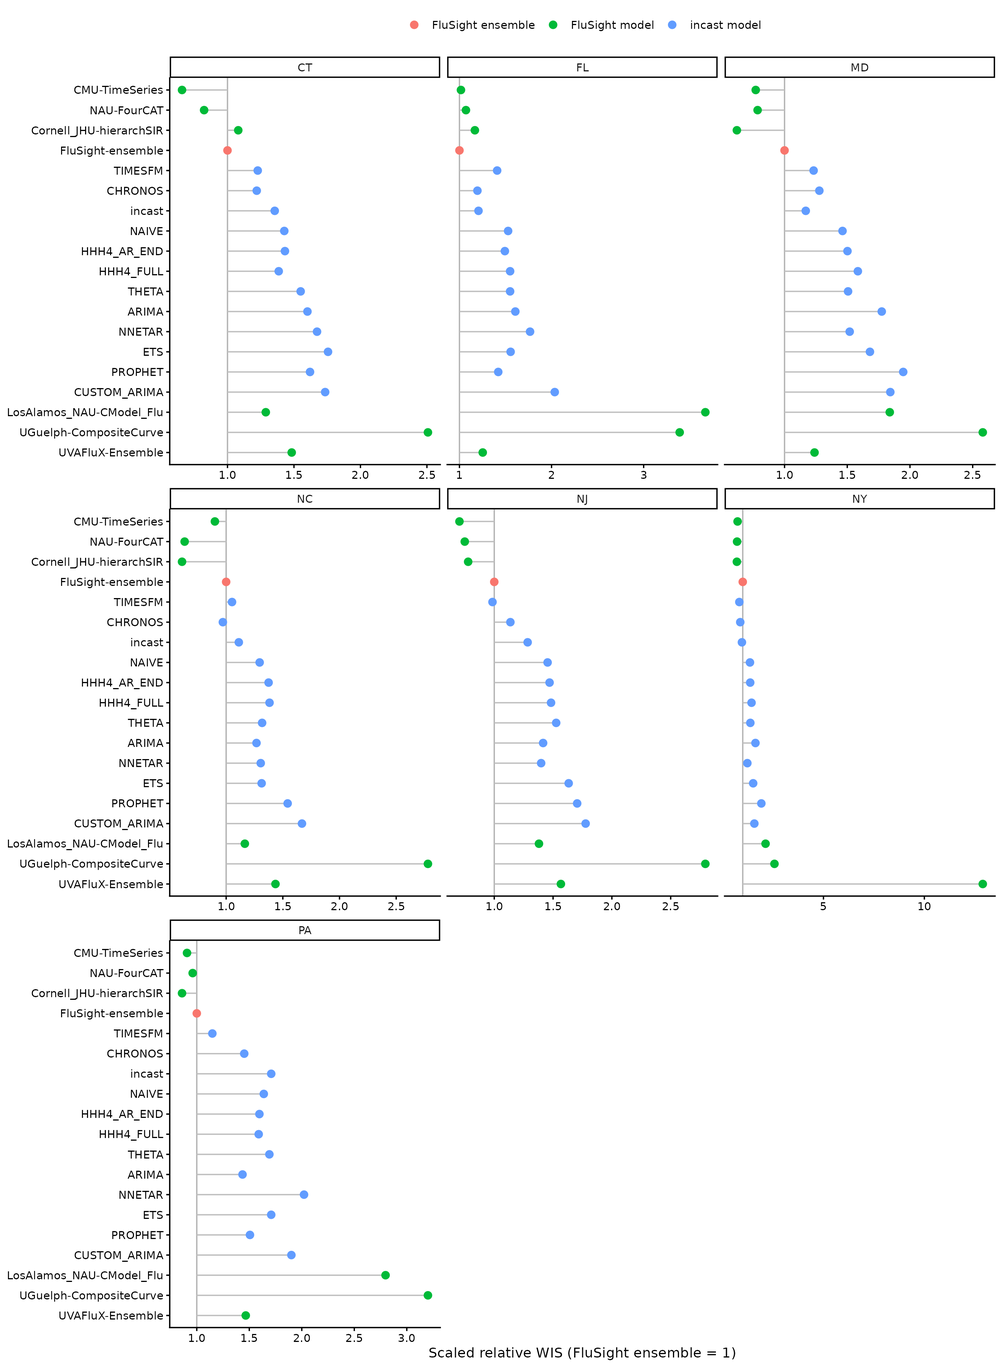
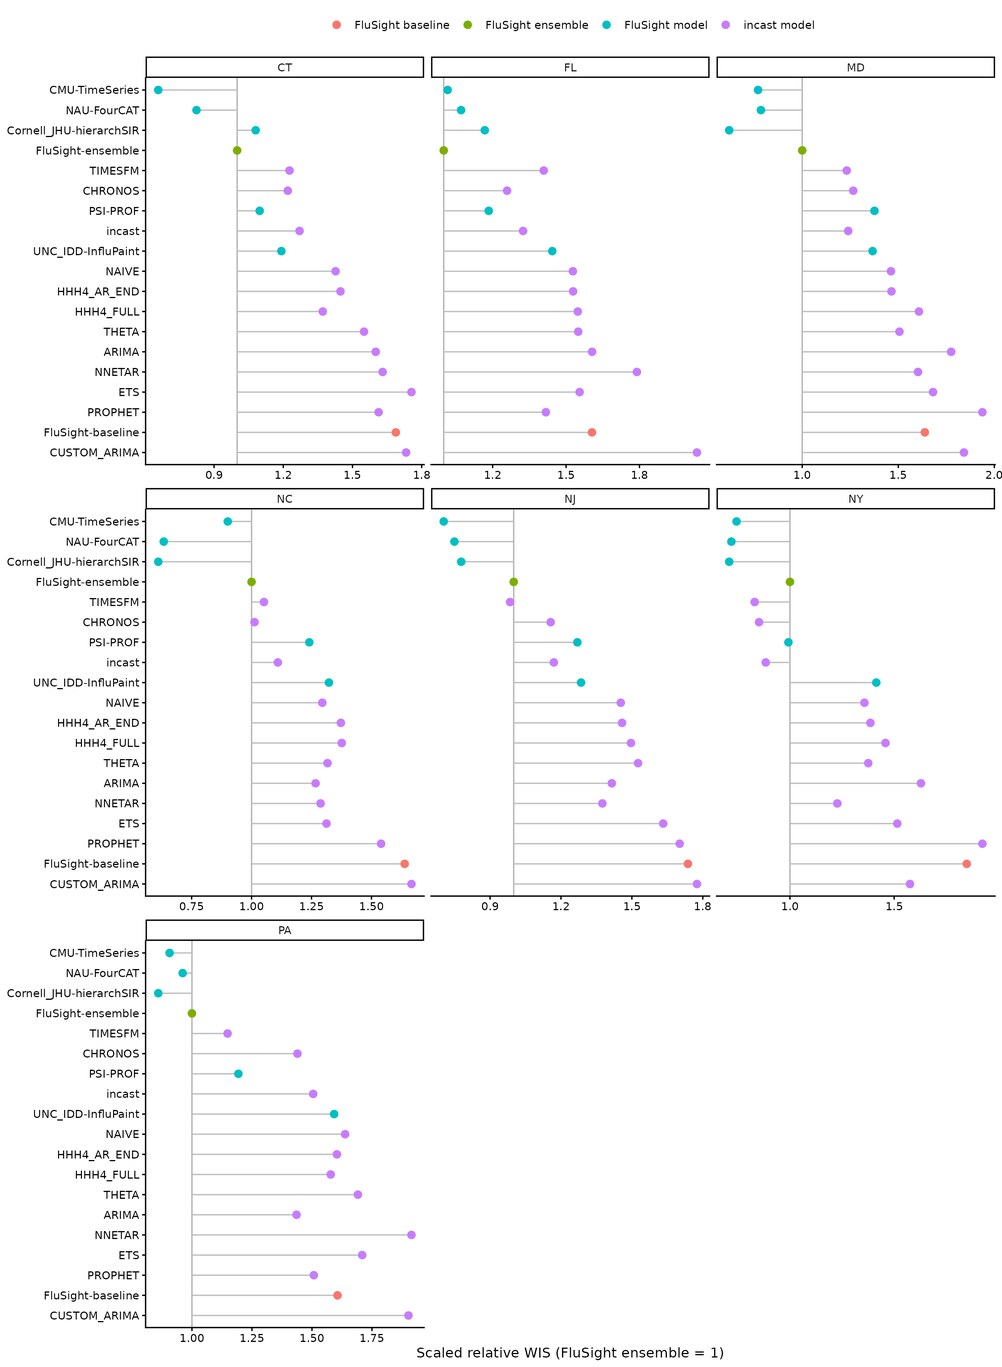
Deploying to gh-pages from @ ACCIDDA/incast@7b730ea4fca12bf1191bf6f40c2be24571ec4ce3 🚀

diff --git a/articles/FluSight.html b/articles/FluSight.html
@@ -111,10 +111,9 @@ forecasts and scores keep the plots fast and reproducible.</p>
 <div class="sourceCode" id="cb2"><pre class="downlit sourceCode r">
 <code class="sourceCode R"><span><span class="fu"><a href="https://rdrr.io/r/utils/write.table.html" class="external-link">write.csv</a></span><span class="op">(</span><span class="va">flusight_forecasts</span>, <span class="st">"incast.csv"</span>, row.names <span class="op">=</span> <span class="cn">FALSE</span><span class="op">)</span></span></code></pre></div>
 <p>The data contain every candidate that fitted successfully. For each
-state and round, the candidate with the lowest cross-validation weighted
-interval score (WIS) is also stored as <code>model_id = "incast"</code>.
-Here, <code>incast</code> is a selected model rather than an
-ensemble.</p>
+state and round, the three candidates with the lowest cross-validation
+weighted interval score (WIS) are combined with equal weights and stored
+as <code>model_id = "incast"</code>.</p>
 </div>
 <div class="section level2">
 <h2 id="backtest-design">Backtest design<a class="anchor" aria-label="anchor" href="#backtest-design"></a>
@@ -156,9 +155,10 @@ origins.</li>
 <li>At each origin, fit every candidate using only earlier observations
 and score its four-week forecast against the latest values available for
 that round.</li>
-<li>Select the lowest-WIS candidate separately for each state.</li>
-<li>Refit every candidate to the data available for the current round
-and save all four forecast horizons. Also save the selected candidate as
+<li>Select the three lowest-WIS candidates separately for each
+state.</li>
+<li>Refit every candidate to the current data and combine the selected
+three using an equal-weight linear pool. Save this ensemble as
 <code>incast</code>.</li>
 </ol>
 <p>The candidates include the four defaults, plus ARIMA, HHH4, Prophet,
@@ -282,7 +282,7 @@ cross-validation explicit:</p>
 <span>    models <span class="op">=</span> <span class="va">my_models</span></span>
 <span>  <span class="op">)</span></span>
 <span></span>
-<span>  <span class="fu"><a href="../reference/get_fcast.html">get_fcast</a></span><span class="op">(</span><span class="va">cv</span>, h <span class="op">=</span> <span class="va">forecast_steps</span>, top_n <span class="op">=</span> <span class="fl">1</span><span class="op">)</span><span class="op">$</span><span class="va">hub</span><span class="op">$</span><span class="va">model_out_tbl</span> <span class="op">|&gt;</span></span>
+<span>  <span class="fu"><a href="../reference/get_fcast.html">get_fcast</a></span><span class="op">(</span><span class="va">cv</span>, h <span class="op">=</span> <span class="va">forecast_steps</span>, top_n <span class="op">=</span> <span class="fl">3</span><span class="op">)</span><span class="op">$</span><span class="va">hub</span><span class="op">$</span><span class="va">model_out_tbl</span> <span class="op">|&gt;</span></span>
 <span>    <span class="fu"><a href="https://dplyr.tidyverse.org/reference/transmute.html" class="external-link">transmute</a></span><span class="op">(</span></span>
 <span>      model_id <span class="op">=</span> <span class="fu"><a href="https://dplyr.tidyverse.org/reference/if_else.html" class="external-link">if_else</a></span><span class="op">(</span><span class="va">model_id</span> <span class="op">==</span> <span class="st">"ENSEMBLE"</span>, <span class="st">"incast"</span>, <span class="va">model_id</span><span class="op">)</span>,</span>
 <span>      reference_date <span class="op">=</span> <span class="va">ref_date</span>,</span>
@@ -310,10 +310,10 @@ cross-validation explicit:</p>
 <span><span class="op">}</span><span class="op">)</span></span>
 <span></span>
 <span><span class="va">flusight_forecasts</span> <span class="op">&lt;-</span> <span class="fu"><a href="https://dplyr.tidyverse.org/reference/bind_rows.html" class="external-link">bind_rows</a></span><span class="op">(</span><span class="va">rounds</span><span class="op">)</span></span>
-<span><span class="fu"><a href="https://rdrr.io/r/base/save.html" class="external-link">save</a></span><span class="op">(</span></span>
+<span><span class="fu"><a href="https://rdrr.io/r/utils/write.table.html" class="external-link">write.csv</a></span><span class="op">(</span></span>
 <span>  <span class="va">flusight_forecasts</span>,</span>
-<span>  file <span class="op">=</span> <span class="fu"><a href="https://rdrr.io/r/base/file.path.html" class="external-link">file.path</a></span><span class="op">(</span><span class="st">"data"</span>, <span class="st">"flusight_forecasts.rda"</span><span class="op">)</span>,</span>
-<span>  compress <span class="op">=</span> <span class="st">"xz"</span></span>
+<span>  <span class="fu"><a href="https://rdrr.io/r/base/file.path.html" class="external-link">file.path</a></span><span class="op">(</span><span class="st">"data-raw"</span>, <span class="st">"incast.csv"</span><span class="op">)</span>,</span>
+<span>  row.names <span class="op">=</span> <span class="cn">FALSE</span></span>
 <span><span class="op">)</span></span></code></pre></div>
 </div>
 </div>
@@ -322,16 +322,20 @@ cross-validation explicit:</p>
 </h2>
 <p>The saved forecasts were scored with
 <code><a href="https://hubverse-org.github.io/hubEvals/reference/score_model_out.html" class="external-link">hubEvals::score_model_out()</a></code> against the FluSight v1.2.0
-target data. <code>FluSight-ensemble</code> is the baseline. Lower WIS
-is better, and scaled relative WIS below one indicates better
-performance than the ensemble.</p>
+target data. Scores are scaled relative to
+<code>FluSight-ensemble</code>. Lower WIS is better, and scaled relative
+WIS below one indicates better performance than the ensemble.</p>
 <p>Only the five quantiles available for every model (0.025, 0.25, 0.5,
 0.75, and 0.975) are scored. Consequently, this is a like-for-like
 comparison among the models shown here, but it is not the official
 FluSight evaluation based on the Hub’s complete quantile grid.</p>
-<p>The plot includes the three best and three worst individual FluSight
-models, plus the FluSight ensemble. Ranks use pooled scaled relative WIS
-across seven states.</p>
+<p>The plot includes the FluSight ensemble, the naive
+<code>FluSight-baseline</code>, the three best individual FluSight
+models, and the models ranked nearest the 50th and 75th percentiles.
+Ranks use pooled scaled relative WIS across seven states, among
+submissions covering at least 90% of the scored forecasts. Note that the
+top three are identified with hindsight; only the ensemble and baseline
+were available in real time.</p>
 <div class="sourceCode" id="cb6"><pre class="downlit sourceCode r">
 <code class="sourceCode R"><span><span class="va">plot_scores</span> <span class="op">&lt;-</span> <span class="kw">function</span><span class="op">(</span><span class="va">x</span><span class="op">)</span> <span class="op">{</span></span>
 <span>  <span class="va">x</span> <span class="op">|&gt;</span></span>
@@ -353,29 +357,31 @@ across seven states.</p>
 <span>    <span class="fu"><a href="https://ggplot2.tidyverse.org/reference/theme.html" class="external-link">theme</a></span><span class="op">(</span>legend.position <span class="op">=</span> <span class="st">"top"</span><span class="op">)</span></span>
 <span><span class="op">}</span></span>
 <span></span>
-<span><span class="fu">plot_scores</span><span class="op">(</span><span class="va">flusight_scores</span><span class="op">)</span></span></code></pre></div>
+<span><span class="va">flusight_scores</span> <span class="op">|&gt;</span></span>
+<span>  <span class="fu"><a href="https://rdrr.io/r/stats/filter.html" class="external-link">filter</a></span><span class="op">(</span><span class="va">display</span><span class="op">)</span> <span class="op">|&gt;</span></span>
+<span>  <span class="fu">plot_scores</span><span class="op">(</span><span class="op">)</span></span></code></pre></div>
 <p><img src="FluSight_files/figure-html/score-overall-1.png" class="r-plt" alt="" width="960"></p>
 <p>Performance varies by state. Points left of the vertical line
 outperform the FluSight ensemble. The two <code>odin2</code> candidates
-are omitted because they are not well parameterised.
-<code>CHRONOS</code> and <code>TIMESFM</code> may have seen earlier
-FluSight data during training; their published training cut-off dates
-should be checked before interpreting the comparison.</p>
+are omitted here: they are not well parameterised, and their extreme
+state-level scores would stretch the facet scales. Neither <a href="https://huggingface.co/amazon/chronos-t5-small" class="external-link"><code>CHRONOS</code></a>
+nor <a href="https://huggingface.co/google/timesfm-2.5-200m-pytorch" class="external-link"><code>TIMESFM</code></a>
+could have been pretrained on the 2025–26 evaluation wave.</p>
 <div class="sourceCode" id="cb7"><pre class="downlit sourceCode r">
-<code class="sourceCode R"><span><span class="fu">plot_scores</span><span class="op">(</span><span class="va">flusight_scores_by_location</span><span class="op">)</span> <span class="op">+</span></span>
+<code class="sourceCode R"><span><span class="va">flusight_scores_by_location</span> <span class="op">|&gt;</span></span>
+<span>  <span class="fu"><a href="https://rdrr.io/r/stats/filter.html" class="external-link">filter</a></span><span class="op">(</span><span class="va">display</span><span class="op">)</span> <span class="op">|&gt;</span></span>
+<span>  <span class="fu">plot_scores</span><span class="op">(</span><span class="op">)</span> <span class="op">+</span></span>
 <span>  <span class="fu"><a href="https://ggplot2.tidyverse.org/reference/facet_wrap.html" class="external-link">facet_wrap</a></span><span class="op">(</span><span class="op">~</span><span class="va">state</span>, scales <span class="op">=</span> <span class="st">"free_x"</span><span class="op">)</span></span></code></pre></div>
 <p><img src="FluSight_files/figure-html/score-by-location-1.png" class="r-plt" alt="" width="1320"></p>
 </div>
 <div class="section level2">
 <h2 id="recomputing-the-saved-results">Recomputing the saved results<a class="anchor" aria-label="anchor" href="#recomputing-the-saved-results"></a>
 </h2>
-<p>The score tables used above are stored as
-<code>flusight_scores</code> and
-<code>flusight_scores_by_location</code>. To update the packaged
-forecasts and scores after replacing <code>data-raw/incast.csv</code>,
-run <code>data-raw/FluSight.R</code>. The script downloads the matching
-FluSight forecasts and truth and updates the <code>.rda</code> files; it
-does not refit any <code>incast</code> model.</p>
+<p>Run <code>data-raw/FluSight-backtest.R</code> to refit the backtest
+and write <code>data-raw/incast.csv</code>. The script caches each
+round’s cross-validation object so future changes to <code>top_n</code>
+are faster. It then packages the forecasts and recomputes the score
+tables automatically.</p>
 <p>The model-fitting chunks use <code>eval = FALSE</code>. Run them only
 to regenerate the backtest.</p>
 </div>

diff --git a/reference/flusight_scores.html b/reference/flusight_scores.html
@@ -1,7 +1,7 @@
 <!DOCTYPE html>
-<!-- Generated by pkgdown: do not edit by hand --><html lang="en"><head><meta http-equiv="Content-Type" content="text/html; charset=UTF-8"><meta charset="utf-8"><meta http-equiv="X-UA-Compatible" content="IE=edge"><meta name="viewport" content="width=device-width, initial-scale=1, shrink-to-fit=no"><title>Scores from the 2025–26 FluSight backtest — flusight_scores • incast</title><!-- favicons --><link rel="icon" type="image/png" sizes="96x96" href="../favicon-96x96.png"><link rel="icon" type="”image/svg+xml”" href="../favicon.svg"><link rel="apple-touch-icon" sizes="180x180" href="../apple-touch-icon.png"><link rel="icon" sizes="any" href="../favicon.ico"><link rel="manifest" href="../site.webmanifest"><script src="../deps/jquery-3.6.0/jquery-3.6.0.min.js"></script><meta name="viewport" content="width=device-width, initial-scale=1, shrink-to-fit=no"><link href="../deps/bootstrap-5.3.8/bootstrap.min.css" rel="stylesheet"><script src="../deps/bootstrap-5.3.8/bootstrap.bundle.min.js"></script><link href="../deps/font-awesome-6.5.2/css/all.min.css" rel="stylesheet"><link href="../deps/font-awesome-6.5.2/css/v4-shims.min.css" rel="stylesheet"><script src="../deps/headroom-0.11.0/headroom.min.js"></script><script src="../deps/headroom-0.11.0/jQuery.headroom.min.js"></script><script src="../deps/bootstrap-toc-1.0.1/bootstrap-toc.min.js"></script><script src="../deps/clipboard.js-2.0.11/clipboard.min.js"></script><script src="../deps/search-1.0.0/autocomplete.jquery.min.js"></script><script src="../deps/search-1.0.0/fuse.min.js"></script><script src="../deps/search-1.0.0/mark.min.js"></script><!-- pkgdown --><script src="../pkgdown.js"></script><link href="../extra.css" rel="stylesheet"><script src="../extra.js"></script><meta property="og:title" content="Scores from the 2025–26 FluSight backtest — flusight_scores"><meta name="description" content="Score summaries comparing incast with selected FluSight models. They let
-the FluSight vignette run without refitting models or downloading Hub data."><meta property="og:description" content="Score summaries comparing incast with selected FluSight models. They let
-the FluSight vignette run without refitting models or downloading Hub data."><meta property="og:image" content="https://accidda.github.io/incast/logo.png"></head><body>
+<!-- Generated by pkgdown: do not edit by hand --><html lang="en"><head><meta http-equiv="Content-Type" content="text/html; charset=UTF-8"><meta charset="utf-8"><meta http-equiv="X-UA-Compatible" content="IE=edge"><meta name="viewport" content="width=device-width, initial-scale=1, shrink-to-fit=no"><title>Scores from the 2025–26 FluSight backtest — flusight_scores • incast</title><!-- favicons --><link rel="icon" type="image/png" sizes="96x96" href="../favicon-96x96.png"><link rel="icon" type="”image/svg+xml”" href="../favicon.svg"><link rel="apple-touch-icon" sizes="180x180" href="../apple-touch-icon.png"><link rel="icon" sizes="any" href="../favicon.ico"><link rel="manifest" href="../site.webmanifest"><script src="../deps/jquery-3.6.0/jquery-3.6.0.min.js"></script><meta name="viewport" content="width=device-width, initial-scale=1, shrink-to-fit=no"><link href="../deps/bootstrap-5.3.8/bootstrap.min.css" rel="stylesheet"><script src="../deps/bootstrap-5.3.8/bootstrap.bundle.min.js"></script><link href="../deps/font-awesome-6.5.2/css/all.min.css" rel="stylesheet"><link href="../deps/font-awesome-6.5.2/css/v4-shims.min.css" rel="stylesheet"><script src="../deps/headroom-0.11.0/headroom.min.js"></script><script src="../deps/headroom-0.11.0/jQuery.headroom.min.js"></script><script src="../deps/bootstrap-toc-1.0.1/bootstrap-toc.min.js"></script><script src="../deps/clipboard.js-2.0.11/clipboard.min.js"></script><script src="../deps/search-1.0.0/autocomplete.jquery.min.js"></script><script src="../deps/search-1.0.0/fuse.min.js"></script><script src="../deps/search-1.0.0/mark.min.js"></script><!-- pkgdown --><script src="../pkgdown.js"></script><link href="../extra.css" rel="stylesheet"><script src="../extra.js"></script><meta property="og:title" content="Scores from the 2025–26 FluSight backtest — flusight_scores"><meta name="description" content="Score summaries comparing incast with official FluSight team submissions.
+They let the vignette run without refitting models or downloading Hub data."><meta property="og:description" content="Score summaries comparing incast with official FluSight team submissions.
+They let the vignette run without refitting models or downloading Hub data."><meta property="og:image" content="https://accidda.github.io/incast/logo.png"></head><body>
     <a href="#main" class="visually-hidden-focusable">Skip to contents</a>
 
 
@@ -43,8 +43,8 @@ the FluSight vignette run without refitting models or downloading Hub data."><me
     </div>
 
     <div class="ref-description section level2">
-    <p>Score summaries comparing <code>incast</code> with selected FluSight models. They let
-the FluSight vignette run without refitting models or downloading Hub data.</p>
+    <p>Score summaries comparing <code>incast</code> with official FluSight team submissions.
+They let the vignette run without refitting models or downloading Hub data.</p>
     </div>
 
     <div class="section level2">
@@ -78,8 +78,12 @@ columns:</p><dl><dt>model_id</dt>
 <dd><p>Number of forecast tasks scored.</p></dd>
 
 <dt>model_group</dt>
-<dd><p>One of <code>"FluSight ensemble"</code>, <code>"FluSight model"</code>,
-or <code>"incast model"</code>.</p></dd>
+<dd><p>One of <code>"FluSight ensemble"</code>, <code>"FluSight baseline"</code>,
+<code>"FluSight model"</code>, or <code>"incast model"</code>.</p></dd>
+
+<dt>display</dt>
+<dd><p>Whether the vignette's concise comparison displays the
+model. All models remain available for custom filtering.</p></dd>
 
 
 </dl></div>

diff --git a/index.html b/index.html
@@ -70,7 +70,7 @@
 </h1>
 </div>
 <!-- badges: start -->
-<!-- badges: end -->
+
 <p><code>incast</code> is an R package for infectious disease nowcasting and forecasting. It was developed through <strong><a href="https://www.cdc.gov/insight-net" class="external-link">Insight Net</a></strong>, a <strong><a href="https://www.cdc.gov/forecast-outbreak-analytics/index.html" class="external-link">CDC Center for Forecasting and Outbreak Analytics</a></strong> initiative.</p>
 <p>Use it to fetch or validate data, correct reporting delays, compare models and produce forecasts.</p>
 <div class="section level2">
@@ -183,7 +183,13 @@
 </ul>
 </div>
 
-
+<div class="dev-status">
+<h2 data-toc-skip>Dev status</h2>
+<ul class="list-unstyled">
+<li><a href="https://github.com/ACCIDDA/incast/actions/workflows/R-CMD-check.yaml" class="external-link"><img src="https://github.com/ACCIDDA/incast/actions/workflows/R-CMD-check.yaml/badge.svg" alt="R-CMD-check"></a></li>
+<li><a href="https://app.codecov.io/gh/ACCIDDA/incast" class="external-link"><img src="https://codecov.io/gh/ACCIDDA/incast/graph/badge.svg" alt="Codecov test coverage"></a></li>
+</ul>
+</div>
 
   </aside>
 </div>

diff --git a/reference/flusight_scores_by_location.html b/reference/flusight_scores_by_location.html
@@ -77,11 +77,15 @@
 <dd><p>Number of forecast tasks scored.</p></dd>
 
 <dt>model_group</dt>
-<dd><p>One of <code>"FluSight ensemble"</code>, <code>"FluSight model"</code>,
-or <code>"incast model"</code>.</p></dd>
+<dd><p>One of <code>"FluSight ensemble"</code>, <code>"FluSight baseline"</code>,
+<code>"FluSight model"</code>, or <code>"incast model"</code>.</p></dd>
 
 <dt>state</dt>
 <dd><p>Two-letter state abbreviation.</p></dd>
+
+<dt>display</dt>
+<dd><p>Whether the vignette's concise comparison displays the
+model. All models remain available for custom filtering.</p></dd>
 
 
 </dl></div>

diff --git a/articles/FluSight.md b/articles/FluSight.md
@@ -44,9 +44,9 @@ write.csv(flusight_forecasts, "incast.csv", row.names = FALSE)
 ```
 
 The data contain every candidate that fitted successfully. For each
-state and round, the candidate with the lowest cross-validation weighted
-interval score (WIS) is also stored as `model_id = "incast"`. Here,
-`incast` is a selected model rather than an ensemble.
+state and round, the three candidates with the lowest cross-validation
+weighted interval score (WIS) are combined with equal weights and stored
+as `model_id = "incast"`.
 
 ## Backtest design
 
@@ -88,10 +88,10 @@ For each round:
 3.  At each origin, fit every candidate using only earlier observations
     and score its four-week forecast against the latest values available
     for that round.
-4.  Select the lowest-WIS candidate separately for each state.
-5.  Refit every candidate to the data available for the current round
-    and save all four forecast horizons. Also save the selected
-    candidate as `incast`.
+4.  Select the three lowest-WIS candidates separately for each state.
+5.  Refit every candidate to the current data and combine the selected
+    three using an equal-weight linear pool. Save this ensemble as
+    `incast`.
 
 The candidates include the four defaults, plus ARIMA, HHH4, Prophet,
 neural network, mechanistic and foundation models:
@@ -220,7 +220,7 @@ fcast_round <- function(ref_date) {
     models = my_models
   )
 
-  get_fcast(cv, h = forecast_steps, top_n = 1)$hub$model_out_tbl |>
+  get_fcast(cv, h = forecast_steps, top_n = 3)$hub$model_out_tbl |>
     transmute(
       model_id = if_else(model_id == "ENSEMBLE", "incast", model_id),
       reference_date = ref_date,
@@ -248,10 +248,10 @@ rounds <- lapply(reference_dates, function(ref_date) {
 })
 
 flusight_forecasts <- bind_rows(rounds)
-save(
+write.csv(
   flusight_forecasts,
-  file = file.path("data", "flusight_forecasts.rda"),
-  compress = "xz"
+  file.path("data-raw", "incast.csv"),
+  row.names = FALSE
 )
 ```
 
@@ -259,18 +259,21 @@ save(
 
 The saved forecasts were scored with
 [`hubEvals::score_model_out()`](https://hubverse-org.github.io/hubEvals/reference/score_model_out.html)
-against the FluSight v1.2.0 target data. `FluSight-ensemble` is the
-baseline. Lower WIS is better, and scaled relative WIS below one
-indicates better performance than the ensemble.
+against the FluSight v1.2.0 target data. Scores are scaled relative to
+`FluSight-ensemble`. Lower WIS is better, and scaled relative WIS below
+one indicates better performance than the ensemble.
 
 Only the five quantiles available for every model (0.025, 0.25, 0.5,
 0.75, and 0.975) are scored. Consequently, this is a like-for-like
 comparison among the models shown here, but it is not the official
 FluSight evaluation based on the Hub’s complete quantile grid.
 
-The plot includes the three best and three worst individual FluSight
-models, plus the FluSight ensemble. Ranks use pooled scaled relative WIS
-across seven states.
+The plot includes the FluSight ensemble, the naive `FluSight-baseline`,
+the three best individual FluSight models, and the models ranked nearest
+the 50th and 75th percentiles. Ranks use pooled scaled relative WIS
+across seven states, among submissions covering at least 90% of the
+scored forecasts. Note that the top three are identified with hindsight;
+only the ensemble and baseline were available in real time.
 
 ``` r
 
@@ -294,20 +297,26 @@ plot_scores <- function(x) {
     theme(legend.position = "top")
 }
 
-plot_scores(flusight_scores)
+flusight_scores |>
+  filter(display) |>
+  plot_scores()
 ```
 
 ![](FluSight_files/figure-html/score-overall-1.png)
 
 Performance varies by state. Points left of the vertical line outperform
-the FluSight ensemble. The two `odin2` candidates are omitted because
-they are not well parameterised. `CHRONOS` and `TIMESFM` may have seen
-earlier FluSight data during training; their published training cut-off
-dates should be checked before interpreting the comparison.
+the FluSight ensemble. The two `odin2` candidates are omitted here: they
+are not well parameterised, and their extreme state-level scores would
+stretch the facet scales. Neither
+[`CHRONOS`](https://huggingface.co/amazon/chronos-t5-small) nor
+[`TIMESFM`](https://huggingface.co/google/timesfm-2.5-200m-pytorch)
+could have been pretrained on the 2025–26 evaluation wave.
 
 ``` r
 
-plot_scores(flusight_scores_by_location) +
+flusight_scores_by_location |>
+  filter(display) |>
+  plot_scores() +
   facet_wrap(~state, scales = "free_x")
 ```
 
@@ -315,11 +324,10 @@ plot_scores(flusight_scores_by_location) +
 
 ## Recomputing the saved results
 
-The score tables used above are stored as `flusight_scores` and
-`flusight_scores_by_location`. To update the packaged forecasts and
-scores after replacing `data-raw/incast.csv`, run `data-raw/FluSight.R`.
-The script downloads the matching FluSight forecasts and truth and
-updates the `.rda` files; it does not refit any `incast` model.
+Run `data-raw/FluSight-backtest.R` to refit the backtest and write
+`data-raw/incast.csv`. The script caches each round’s cross-validation
+object so future changes to `top_n` are faster. It then packages the
+forecasts and recomputes the score tables automatically.
 
 The model-fitting chunks use `eval = FALSE`. Run them only to regenerate
 the backtest.

diff --git a/reference/flusight_scores.md b/reference/flusight_scores.md
@@ -1,8 +1,8 @@
 # Scores from the 2025–26 FluSight backtest
 
-Score summaries comparing `incast` with selected FluSight models. They
-let the FluSight vignette run without refitting models or downloading
-Hub data.
+Score summaries comparing `incast` with official FluSight team
+submissions. They let the vignette run without refitting models or
+downloading Hub data.
 
 ## Usage
 
@@ -46,7 +46,13 @@ columns:
 
 - model_group:
 
-  One of `"FluSight ensemble"`, `"FluSight model"`, or `"incast model"`.
+  One of `"FluSight ensemble"`, `"FluSight baseline"`,
+  `"FluSight model"`, or `"incast model"`.
+
+- display:
+
+  Whether the vignette's concise comparison displays the model. All
+  models remain available for custom filtering.
 
 ## Source
 

diff --git a/reference/flusight_scores_by_location.md b/reference/flusight_scores_by_location.md
@@ -47,11 +47,17 @@ A data frame with one row per model and location and these columns:
 
 - model_group:
 
-  One of `"FluSight ensemble"`, `"FluSight model"`, or `"incast model"`.
+  One of `"FluSight ensemble"`, `"FluSight baseline"`,
+  `"FluSight model"`, or `"incast model"`.
 
 - state:
 
   Two-letter state abbreviation.
+
+- display:
+
+  Whether the vignette's concise comparison displays the model. All
+  models remain available for custom filtering.
 
 ## Source
 
